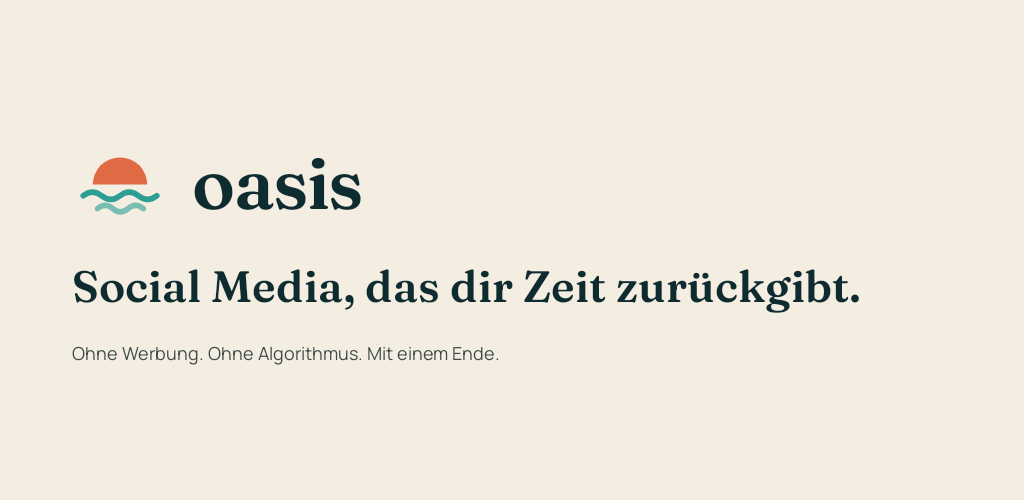
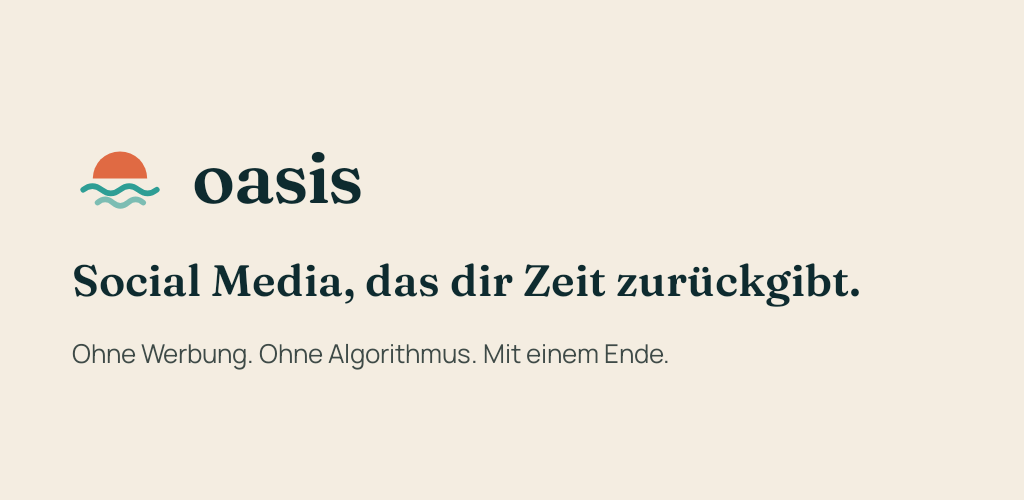
chore(play): larger subline on the feature graphic

diff --git a/app/src/test/kotlin/de/velwebsolutions/oasis/app/StoreGraphicsTest.kt b/app/src/test/kotlin/de/velwebsolutions/oasis/app/StoreGraphicsTest.kt
@@ -12,6 +12,7 @@ import androidx.compose.ui.Modifier
 import androidx.compose.ui.test.junit4.createComposeRule
 import androidx.compose.ui.test.onRoot
 import androidx.compose.ui.unit.dp
+import androidx.compose.ui.unit.sp
 import com.github.takahirom.roborazzi.captureRoboImage
 import de.velwebsolutions.oasis.design.components.OasisLogo
 import de.velwebsolutions.oasis.design.theme.OasisColors
@@ -44,7 +45,11 @@ class StoreGraphicsTest {
                     Column(Modifier.padding(horizontal = 72.dp), verticalArrangement = Arrangement.spacedBy(28.dp)) {
                         OasisLogo(size = 96.dp)
                         Text("Social Media, das dir Zeit zurückgibt.", style = OasisType.display(44), color = OasisColors.Night)
-                        Text("Ohne Werbung. Ohne Algorithmus. Mit einem Ende.", style = OasisType.Lead, color = OasisColors.Ink2)
+                        Text(
+                            "Ohne Werbung. Ohne Algorithmus. Mit einem Ende.",
+                            style = OasisType.Lead.copy(fontSize = 26.sp, lineHeight = 34.sp),
+                            color = OasisColors.Ink2
+                        )
                     }
                 }
             }
